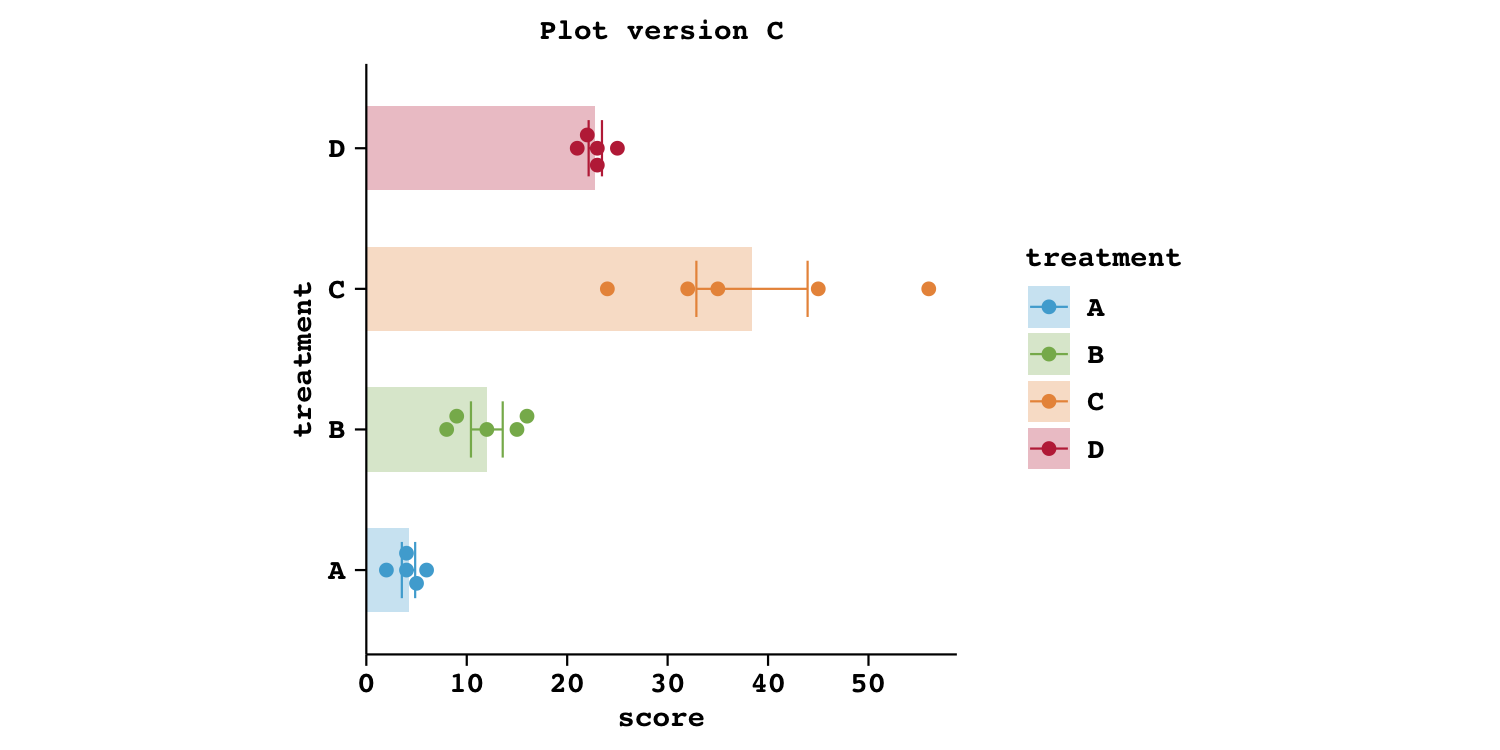
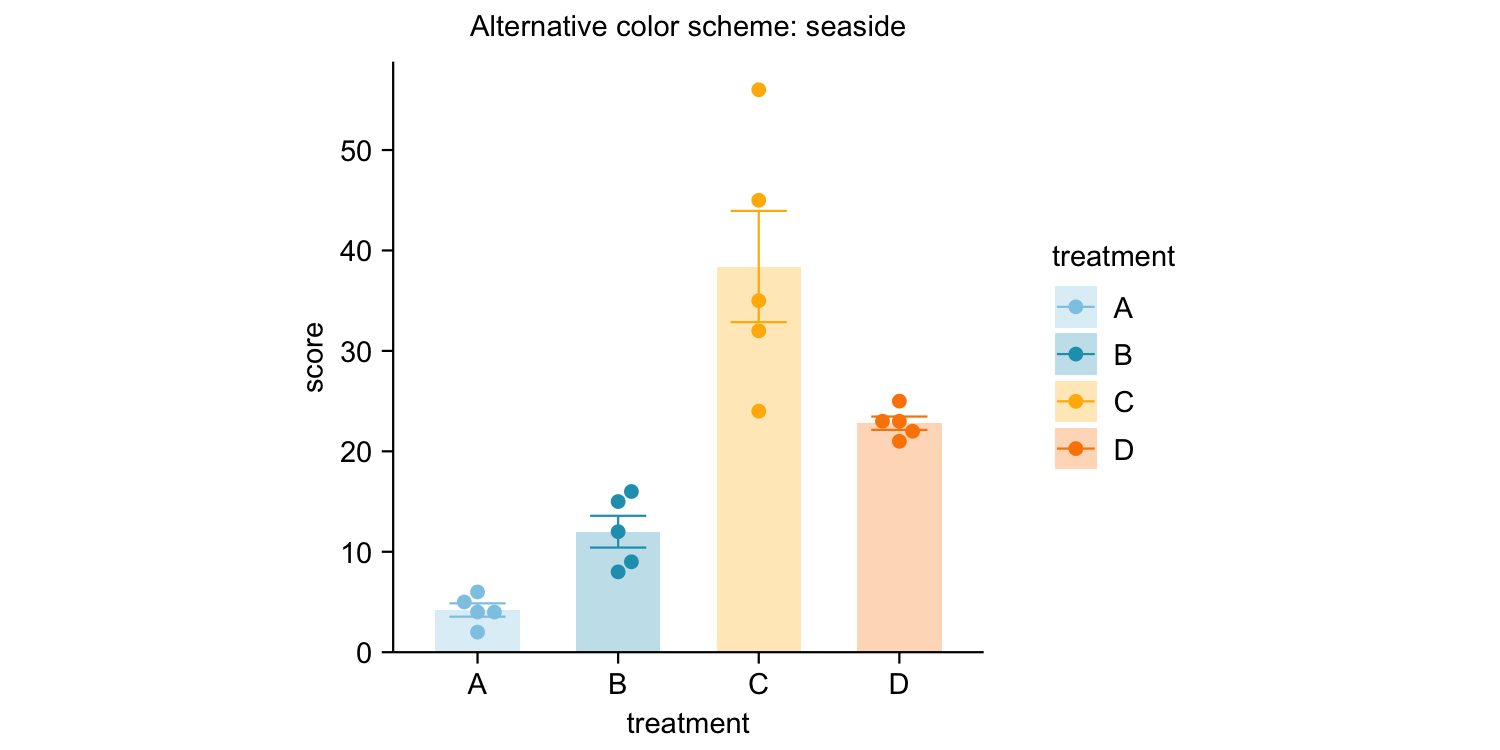
Update README and colors

diff --git a/README.md b/README.md
@@ -8,11 +8,11 @@
 [![R-CMD-check](https://github.com/jbengler/tidyplots/actions/workflows/R-CMD-check.yaml/badge.svg)](https://github.com/jbengler/tidyplots/actions/workflows/R-CMD-check.yaml)
 <!-- badges: end -->
 
-tidyplots streamlines the creation of publication-ready plots for
-scientific papers, making it incredibly easy to add and refine plot
-elements. It allows precise control over composition, style, and
-absolute sizes, while its utilization of the pipe `%>%` simplifies the
-construction of advanced plotting pipelines.
+The goal of `tidyplots` is to streamline the creation of
+publication-ready plots for scientific papers, making it incredibly easy
+to add and refine plot elements. It allows precise control over
+composition, style, and absolute sizes, while its utilization of the
+pipe `%>%` simplifies the construction of advanced plotting pipelines.
 
 ## Installation
 
@@ -122,11 +122,11 @@ study %>%
   add_mean_bar(alpha = 0.3) %>% 
   add_error() %>% 
   add_data_points_beeswarm() %>% 
-  view_plot(title = "Plot version A") %>% 
-  adjust_rotate_plot() %>% 
-  view_plot(title = "Plot version B") %>% 
-  adjust_font(family = "mono", face = "bold") %>% 
-  view_plot(title = "Plot version C")
+  view_plot(title = "Default color scheme: metro") %>% 
+  adjust_colors(colors_discrete_candy) %>% 
+  view_plot(title = "Alternative color scheme: candy") %>% 
+  adjust_colors(colors_discrete_seaside) %>% 
+  view_plot(title = "Alternative color scheme: seaside")
 ```
 
 <img src="man/figures/README-unnamed-chunk-11-1.png" style="display: block; margin: auto;" /><img src="man/figures/README-unnamed-chunk-11-2.png" style="display: block; margin: auto;" /><img src="man/figures/README-unnamed-chunk-11-3.png" style="display: block; margin: auto;" />
